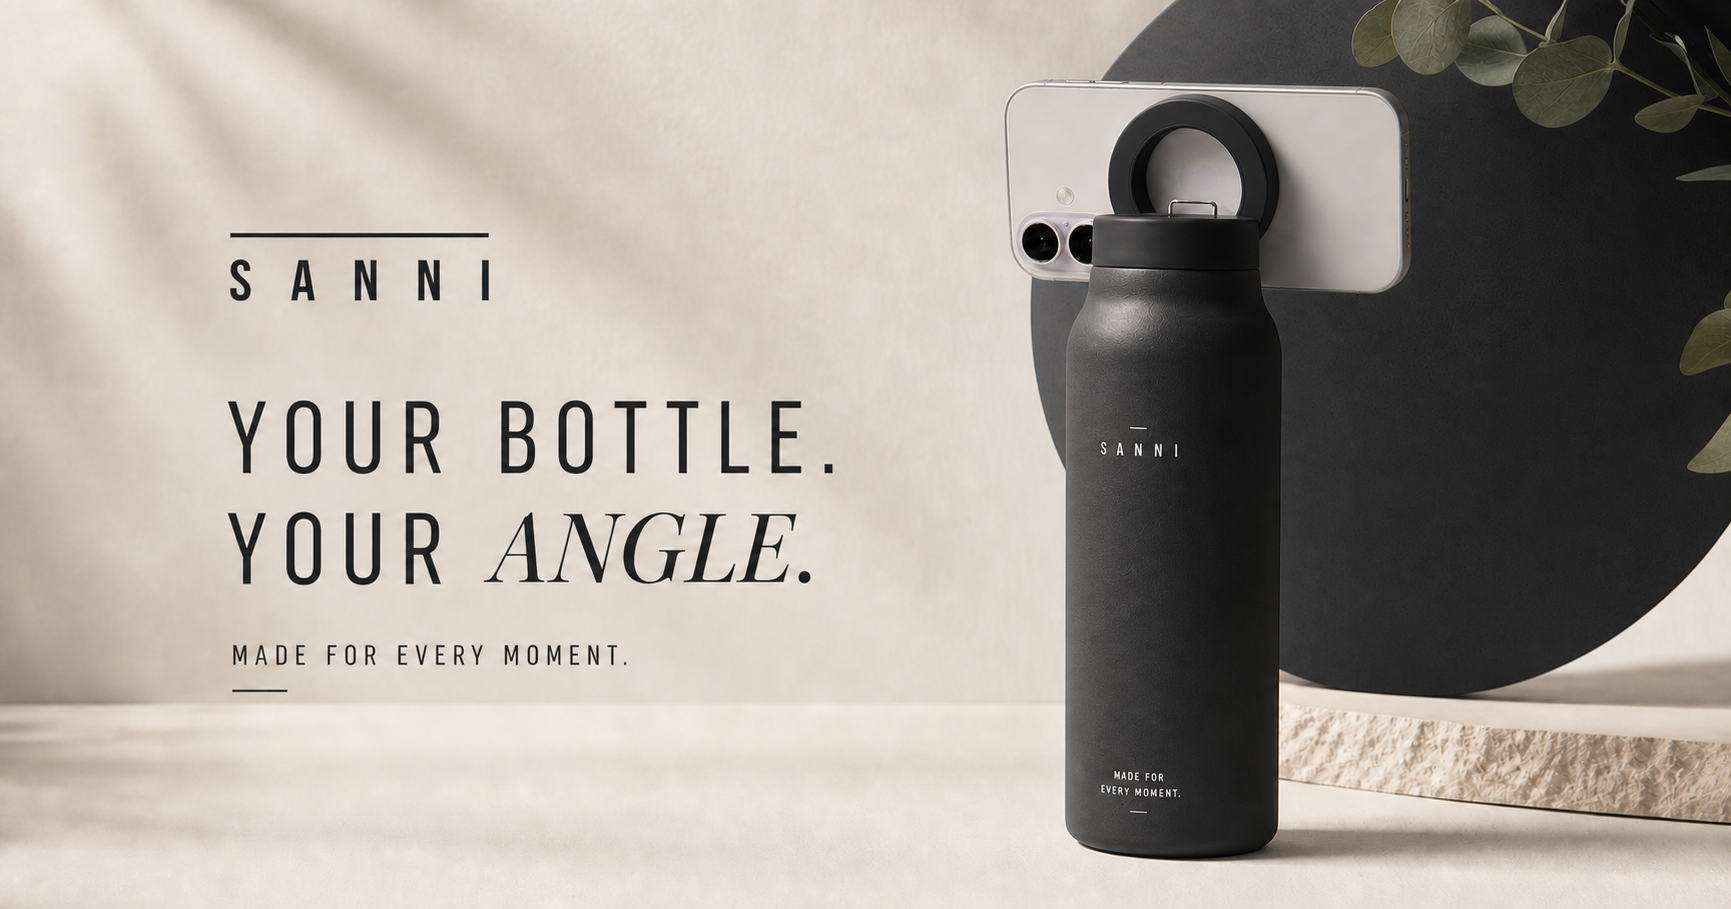
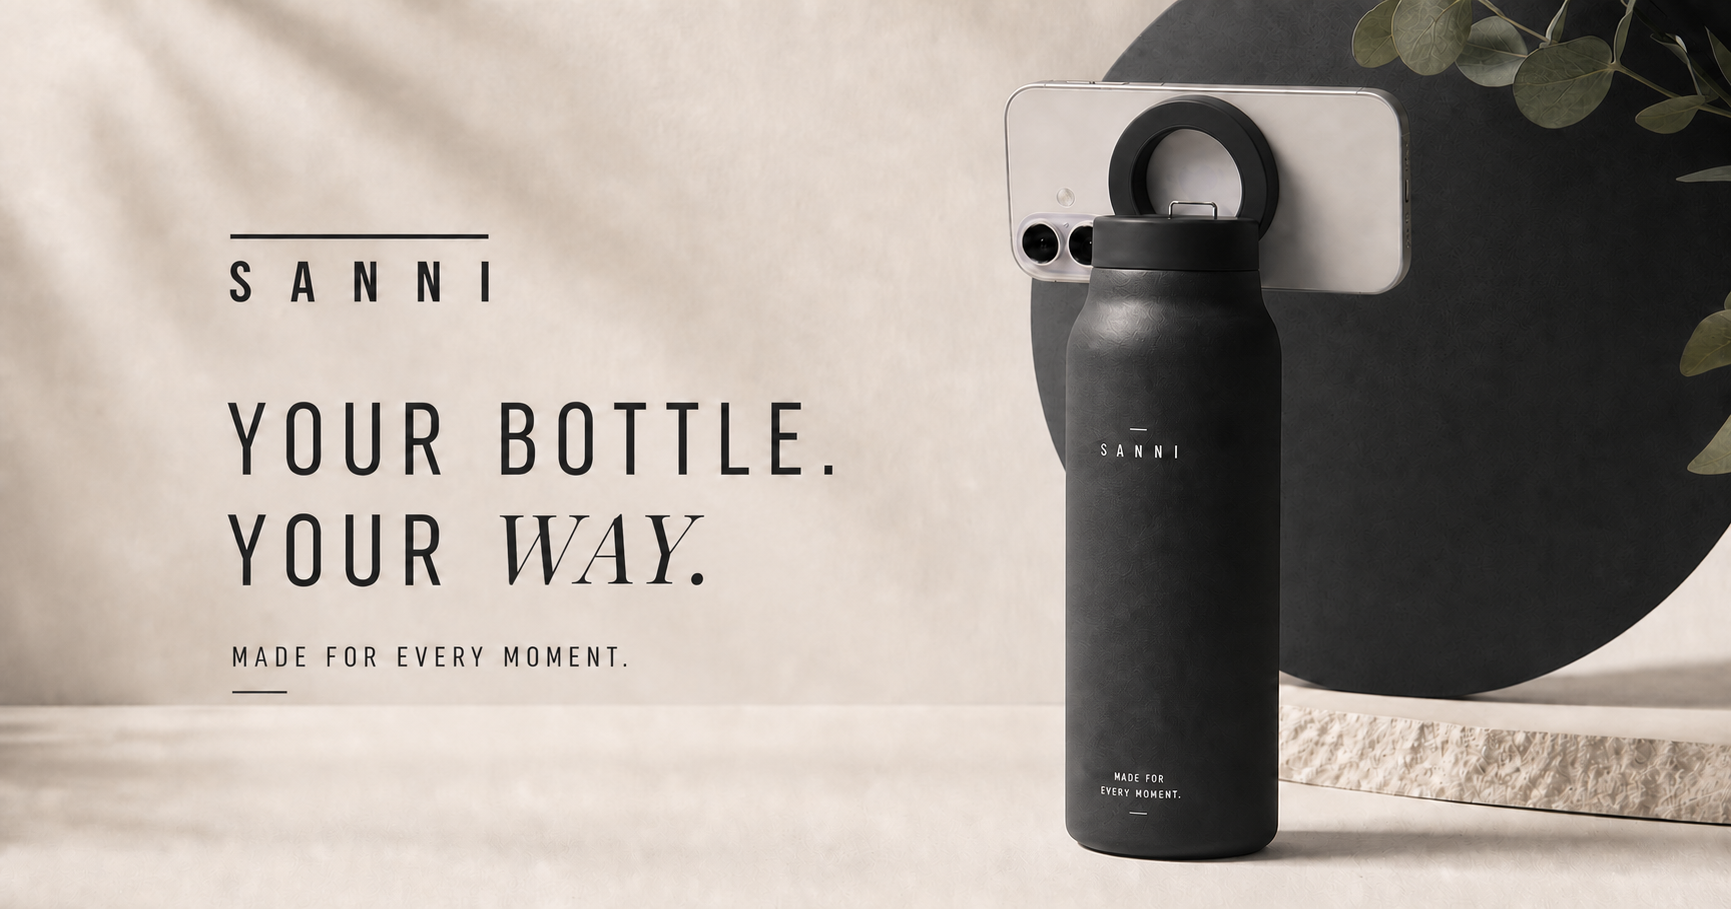
Restore original hero with way copy

diff --git a/app/globals.css b/app/globals.css
@@ -521,69 +521,6 @@ img {
   object-position: center;
 }
 
-.hero-desktop-copy {
-  position: absolute;
-  inset: 0 auto 0 0;
-  z-index: 10;
-  display: flex;
-  width: min(64vw, 1120px);
-  padding: clamp(105px, 12vw, 215px) clamp(32px, 6vw, 105px) clamp(70px, 8vw, 135px) clamp(72px, 13vw, 230px);
-  flex-direction: column;
-  justify-content: center;
-  background: linear-gradient(90deg, rgba(242, 239, 230, 0.995) 0%, rgba(242, 239, 230, 0.97) 70%, rgba(242, 239, 230, 0.64) 88%, rgba(242, 239, 230, 0) 100%);
-  color: #242522;
-  pointer-events: none;
-}
-
-.hero-desktop-copy > span {
-  display: flex;
-  margin-bottom: clamp(52px, 6vw, 96px);
-  flex-direction: column;
-  gap: 15px;
-  font-size: clamp(1rem, 1.8vw, 1.8rem);
-  font-weight: 500;
-  letter-spacing: 0.55em;
-}
-
-.hero-desktop-copy > span::before {
-  width: clamp(150px, 18vw, 260px);
-  height: 3px;
-  background: currentColor;
-  content: "";
-}
-
-.hero-desktop-copy h1 {
-  font-size: clamp(3.4rem, 5.5vw, 6rem);
-  font-weight: 300;
-  letter-spacing: 0.075em;
-  line-height: 1.08;
-  text-transform: uppercase;
-}
-
-.hero-desktop-copy h1 em {
-  font-family: Georgia, serif;
-  font-weight: 400;
-  letter-spacing: -0.02em;
-}
-
-.hero-desktop-copy p {
-  display: flex;
-  margin-top: clamp(34px, 4vw, 62px);
-  flex-direction: column;
-  gap: 17px;
-  font-size: clamp(0.72rem, 1.25vw, 1.18rem);
-  font-weight: 500;
-  letter-spacing: 0.3em;
-  text-transform: uppercase;
-}
-
-.hero-desktop-copy p::after {
-  width: 54px;
-  height: 2px;
-  background: currentColor;
-  content: "";
-}
-
 .hero-nav-wrap {
   position: absolute;
   top: 0;
@@ -1717,10 +1654,6 @@ img {
 }
 
 @media (max-width: 640px) {
-  .hero-desktop-copy {
-    display: none;
-  }
-
   .hero-nav-wrap { padding: 20px 20px 0; }
   .hero-nav { font-size: 0.7rem; }
   .hero-nav a:nth-child(2), .hero-nav a:nth-child(3) { visibility: hidden; }

diff --git a/app/page.tsx b/app/page.tsx
@@ -350,12 +350,6 @@ function HeroSection() {
         </motion.div>
       </AnimatePresence>
 
-      <div className="hero-desktop-copy">
-        <span>SANNI</span>
-        <h1>Your bottle.<br />Your <em>way.</em></h1>
-        <p>Made for every moment.</p>
-      </div>
-
       <FadeIn y={-20} className="hero-nav-wrap">
         <div className="hero-nav-cluster">
           <a className="hero-logo" href="#top" aria-label="SANNI home">